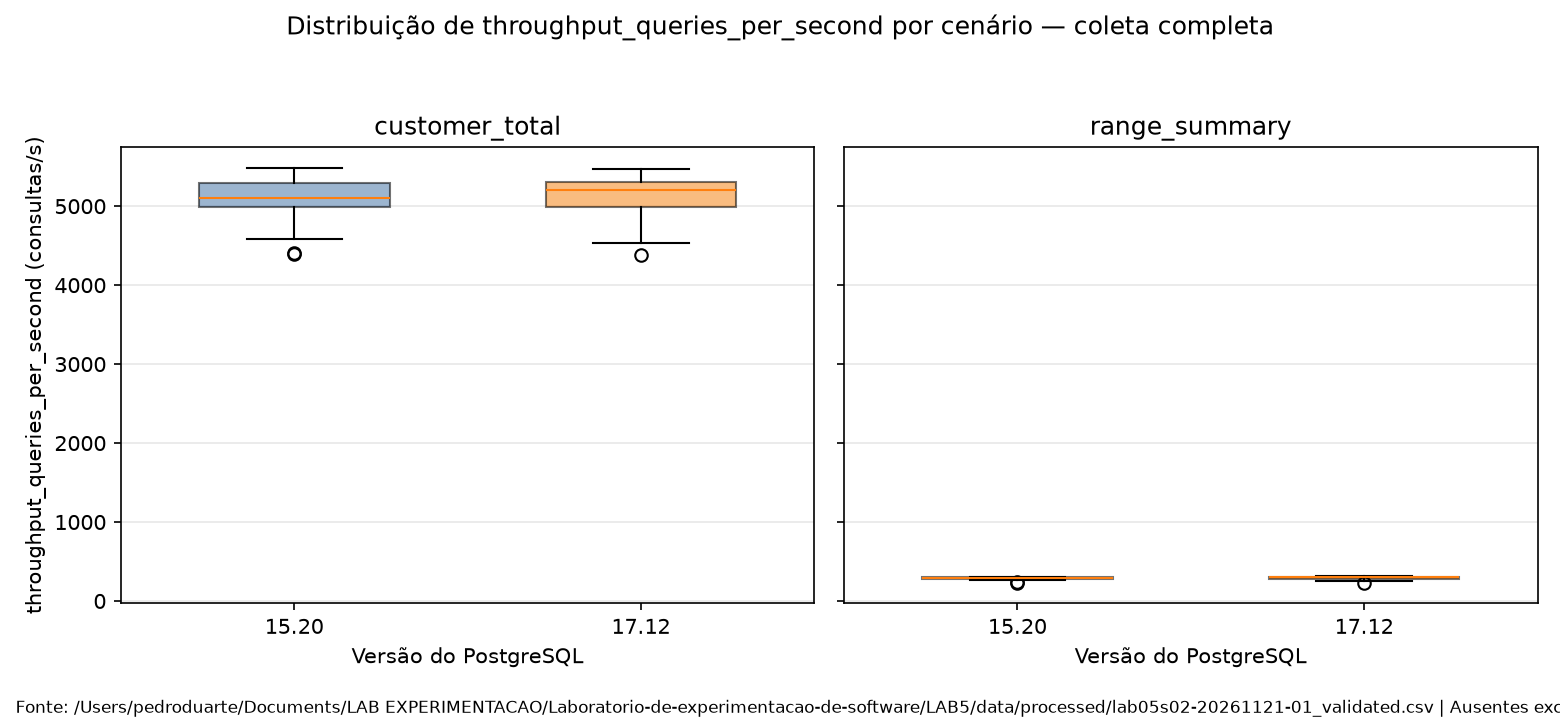
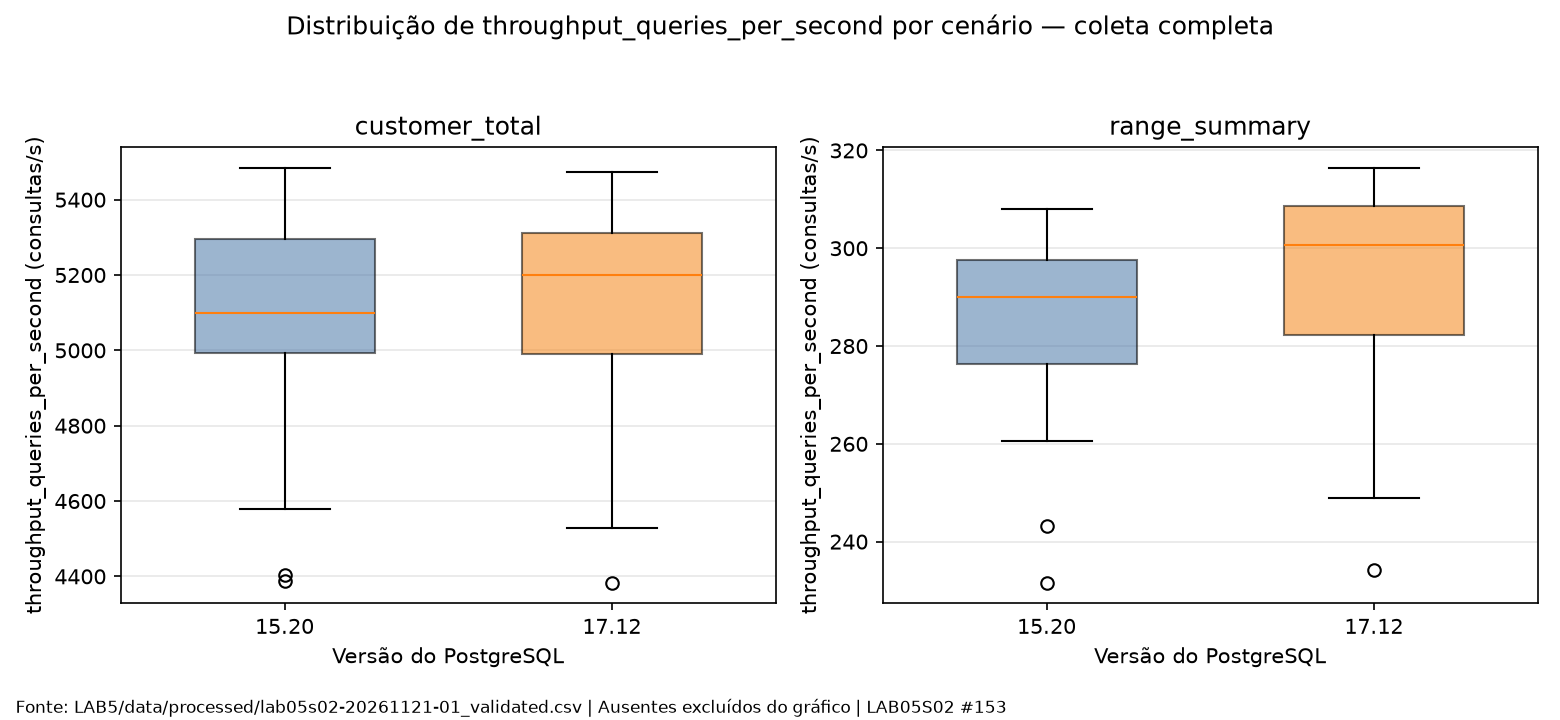
fix(lab5): validar entradas e tornar resultados descritivos portaveis (#153)

diff --git a/LAB5/src/lab05_real_software/s02_descriptive.py b/LAB5/src/lab05_real_software/s02_descriptive.py
@@ -20,6 +20,7 @@ DEFAULT_DATASET = ROOT / "data" / "processed" / "lab05s02-20261121-01_validated.
 DEFAULT_TABLES = ROOT / "reports" / "tables"
 DEFAULT_FIGURES = ROOT / "reports" / "figures"
 DEFAULT_DOCS = ROOT / "docs"
+ROUND_KEY = ["block", "scenario", "software_version"]
 
 IDENTITY_COLUMNS = (
     "campaign_id",
@@ -120,9 +121,21 @@ def load_validated_dataset(path: str | Path) -> pd.DataFrame:
     for column in list(CORE_METRICS) + list(AUX_METRICS):
         if column in frame.columns:
             frame[column] = pd.to_numeric(frame[column], errors="coerce")
-    frame["block"] = pd.to_numeric(frame["block"], errors="coerce").astype("Int64")
+    blocks = pd.to_numeric(frame["block"], errors="coerce")
+    if blocks.isna().any() or not ((blocks > 0) & (blocks % 1 == 0)).all():
+        raise CompleteAnalysisError("block deve conter inteiros positivos")
+    frame["block"] = blocks.astype("Int64")
     if "position" in frame.columns:
         frame["position"] = pd.to_numeric(frame["position"], errors="coerce").astype("Int64")
+    if frame.empty:
+        raise CompleteAnalysisError("dataset validado sem rodadas")
+    for name in ("campaign_id", "software_version", "scenario", "source"):
+        if frame[name].isna().any() or frame[name].str.strip().eq("").any():
+            raise CompleteAnalysisError(f"{name} ausente no dataset validado")
+    if frame["campaign_id"].nunique() != 1:
+        raise CompleteAnalysisError("o dataset deve conter uma única campanha")
+    if frame.duplicated(ROUND_KEY).any():
+        raise CompleteAnalysisError("rodadas duplicadas por bloco, cenário e versão")
     return frame
 
 
@@ -211,9 +224,14 @@ def complete_pairs_by_block(
 
     present_versions = sorted({str(v) for v in frame["software_version"].dropna().unique()})
     if versions is None:
-        if len(present_versions) < 2:
-            raise CompleteAnalysisError("são necessárias duas versões para calcular pares")
-        left, right = present_versions[0], present_versions[1]
+        if len(present_versions) == 1:
+            config = json.loads((ROOT / "config" / "collection-s02.json").read_text(encoding="utf-8"))
+            versions = tuple(config["versions"])
+        else:
+            versions = tuple(present_versions)
+        if len(versions) != 2 or not set(present_versions).issubset(versions):
+            raise CompleteAnalysisError("versões incompatíveis com a comparação pareada")
+        left, right = versions
     else:
         left, right = versions
 
@@ -256,7 +274,8 @@ def block_trace_table(frame: pd.DataFrame) -> pd.DataFrame:
 
     columns = [column for column in IDENTITY_COLUMNS if column in frame.columns]
     trace = frame.loc[:, columns].copy()
-    trace = trace.sort_values(["block", "scenario", "software_version", "position"], kind="mergesort")
+    sort_columns = [column for column in (*ROUND_KEY, "position") if column in columns]
+    trace = trace.sort_values(sort_columns, kind="mergesort")
     return trace.reset_index(drop=True)
 
 
@@ -293,15 +312,13 @@ def plot_metric_by_scenario(
     versions = sorted({str(v) for v in frame["software_version"].dropna().unique()})
     catalog = METRIC_CATALOG.get(metric, {"unit": metric})
 
-    fig, axes = plt.subplots(1, max(len(scenarios), 1), figsize=(5.2 * max(len(scenarios), 1), 4.8), sharey=True)
-    if not isinstance(axes, np.ndarray):
-        axes = np.array([axes])
+    fig, axes = plt.subplots(1, len(scenarios), figsize=(5.2 * len(scenarios), 4.8), squeeze=False)
 
     colors = ["#4c78a8", "#f58518", "#54a24b", "#e45756"]
-    for axis, scenario in zip(axes, scenarios):
+    for axis, scenario in zip(axes[0], scenarios):
         data = []
         labels = []
-        for index, version in enumerate(versions):
+        for version in versions:
             values = _observed(
                 frame.loc[
                     (frame["scenario"].astype("string") == scenario)
@@ -311,15 +328,16 @@ def plot_metric_by_scenario(
             )
             data.append(values if values.size else np.array([np.nan]))
             labels.append(version)
-        boxes = axis.boxplot(data, tick_labels=labels, patch_artist=True, widths=0.55)
+        boxes = axis.boxplot(data, patch_artist=True, widths=0.55)
+        axis.set_xticks(range(1, len(labels) + 1), labels)
         for patch, color in zip(boxes["boxes"], colors):
             patch.set_facecolor(color)
             patch.set_alpha(0.55)
         axis.set_title(scenario)
         axis.set_xlabel("Versão do PostgreSQL")
+        axis.set_ylabel(f"{metric} ({catalog.get('unit', '')})")
         axis.grid(axis="y", alpha=0.3)
 
-    axes[0].set_ylabel(f"{metric} ({catalog.get('unit', '')})".strip())
     fig.suptitle(f"Distribuição de {metric} por cenário — coleta completa")
     fig.text(
         0.01,
@@ -334,18 +352,27 @@ def plot_metric_by_scenario(
     return output_path
 
 
+def artifact_label(path: Path) -> str:
+    resolved = path.resolve()
+    repo = ROOT.parent
+    return resolved.relative_to(repo).as_posix() if resolved.is_relative_to(repo) else resolved.name
+
+
 def write_metric_docs(path: Path, metrics: Iterable[str], dataset_path: Path) -> Path:
     path = Path(path)
     path.parent.mkdir(parents=True, exist_ok=True)
     lines = [
         "# Critérios de agregação — análise descritiva LAB05S02",
         "",
-        f"Dataset validado: `{dataset_path.as_posix()}`",
+        f"Dataset validado: `{artifact_label(dataset_path)}`",
         "",
         "A análise usa apenas rodadas presentes no CSV validado. Valores ausentes",
         "permanecem NaN, entram em `n_missing` e nunca são imputados como zero.",
         "O identificador `block` é preservado nas tabelas de pares e de rastreabilidade,",
         "com o caminho bruto em `source`.",
+        "As contagens descrevem as rodadas presentes no CSV. Rodadas excluídas",
+        "e pares totalmente ausentes constam do relatório de qualidade da coleta.",
+        "Cada painel de distribuição usa escala vertical própria.",
         "",
         "| Métrica | Unidade | Escala | Critério de agregação |",
         "|---|---|---|---|",
@@ -408,23 +435,16 @@ def run_complete_descriptive(
     catalog.to_csv(catalog_path, index=False)
     write_metric_docs(docs_path, metrics, Path(dataset_path))
 
-    figure_paths = {
-        "latency_figure": plot_metric_by_scenario(
-            frame,
-            "query_latency_ms",
-            figures_dir / "s02_latency_by_scenario.png",
-            dataset_label=str(dataset_path),
-        ),
-        "throughput_figure": plot_metric_by_scenario(
-            frame,
-            "throughput_queries_per_second",
-            figures_dir / "s02_throughput_by_scenario.png",
-            dataset_label=str(dataset_path),
-        ),
-    }
+    figure_paths = {}
+    for name, metric in (("latency", "query_latency_ms"), ("throughput", "throughput_queries_per_second")):
+        if metric in metrics:
+            figure_paths[f"{name}_figure"] = plot_metric_by_scenario(
+                frame, metric, figures_dir / f"s02_{name}_by_scenario.png",
+                dataset_label=artifact_label(dataset_path),
+            )
 
     summary = {
-        "dataset": str(dataset_path),
+        "dataset": artifact_label(dataset_path),
         "campaign_id": str(frame["campaign_id"].iloc[0]),
         "n_rows": int(len(frame)),
         "n_blocks": int(frame["block"].nunique()),
@@ -433,14 +453,14 @@ def run_complete_descriptive(
         "metrics": metrics,
         "missing_policy": "ausentes permanecem NaN e entram em n_missing; nunca viram zero",
         "tables": {
-            "descriptive": str(descriptive_path),
-            "complete_pairs": str(pairs_path),
-            "complete_pairs_summary": str(pairs_summary_path),
-            "traceability": str(trace_path),
-            "metric_catalog": str(catalog_path),
+            "descriptive": artifact_label(descriptive_path),
+            "complete_pairs": artifact_label(pairs_path),
+            "complete_pairs_summary": artifact_label(pairs_summary_path),
+            "traceability": artifact_label(trace_path),
+            "metric_catalog": artifact_label(catalog_path),
         },
-        "figures": {name: str(path) for name, path in figure_paths.items()},
-        "docs": str(docs_path),
+        "figures": {name: artifact_label(path) for name, path in figure_paths.items()},
+        "docs": artifact_label(docs_path),
     }
     summary_path.write_text(json.dumps(summary, indent=2, ensure_ascii=False) + "\n", encoding="utf-8")
 

diff --git a/LAB5/tests/test_s02_descriptive.py b/LAB5/tests/test_s02_descriptive.py
@@ -111,7 +111,29 @@ def test_run_complete_descriptive_writes_artifacts(tmp_path: Path):
     assert "block" in pairs.columns
     assert summary["n_rows"] == 96
     assert summary["n_blocks"] == 24
+    assert summary["dataset"] == "LAB5/data/processed/lab05s02-20261121-01_validated.csv"
     assert (pairs["pair_complete"] == True).all()  # noqa: E712
+
+
+def test_single_version_and_metric_generate_incomplete_pairs(tmp_path):
+    dataset = tmp_path / "small.csv"
+    frame = _tiny_frame().iloc[[0]].drop(columns=["position", "throughput_queries_per_second"])
+    frame.to_csv(dataset, index=False)
+    paths = run_complete_descriptive(
+        dataset_path=dataset, tables_dir=tmp_path / "tables",
+        figures_dir=tmp_path / "figures", docs_dir=tmp_path / "docs",
+    )
+    pairs = pd.read_csv(paths["complete_pairs"])
+    assert not pairs["pair_complete"].any()
+    assert (pairs["n_version_b"] == 0).all()
+    assert "throughput_figure" not in paths
+
+
+def test_duplicate_rounds_are_rejected(tmp_path):
+    dataset = tmp_path / "duplicate.csv"
+    pd.concat([_tiny_frame(), _tiny_frame().iloc[:1]]).to_csv(dataset, index=False)
+    with pytest.raises(CompleteAnalysisError, match="duplicadas"):
+        load_validated_dataset(dataset)
 
 
 def test_missing_dataset_raises():

diff --git a/LAB5/docs/analise-descritiva-lab05s02.md b/LAB5/docs/analise-descritiva-lab05s02.md
@@ -1,11 +1,14 @@
 # Critérios de agregação — análise descritiva LAB05S02
 
-Dataset validado: `/Users/pedroduarte/Documents/LAB EXPERIMENTACAO/Laboratorio-de-experimentacao-de-software/LAB5/data/processed/lab05s02-20261121-01_validated.csv`
+Dataset validado: `LAB5/data/processed/lab05s02-20261121-01_validated.csv`
 
 A análise usa apenas rodadas presentes no CSV validado. Valores ausentes
 permanecem NaN, entram em `n_missing` e nunca são imputados como zero.
 O identificador `block` é preservado nas tabelas de pares e de rastreabilidade,
 com o caminho bruto em `source`.
+As contagens descrevem as rodadas presentes no CSV. Rodadas excluídas
+e pares totalmente ausentes constam do relatório de qualidade da coleta.
+Cada painel de distribuição usa escala vertical própria.
 
 | Métrica | Unidade | Escala | Critério de agregação |
 |---|---|---|---|
